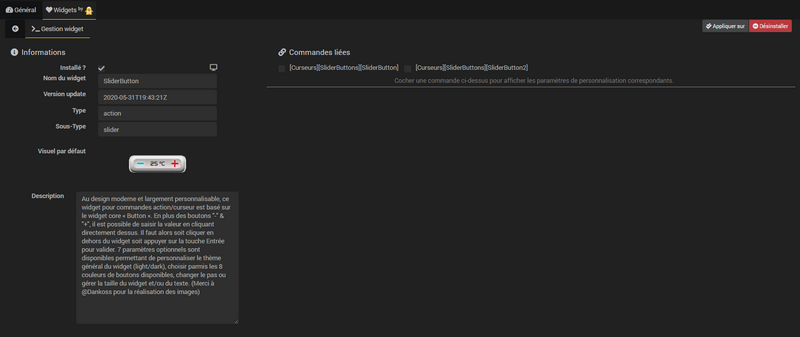
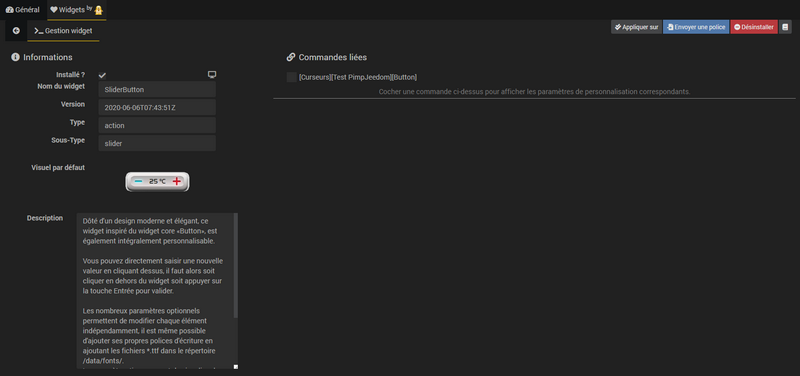
pimpJeedom doc news

diff --git a/pimpJeedom/fr_FR/index.md b/pimpJeedom/fr_FR/index.md
@@ -108,7 +108,9 @@ Permet de visualiser les commandes sur lesquelles le widget est appliqué. Coche
 * **Boutons du menu**:
   * **Appliquer sur** : Pour choisir les commandes sur lesquelles appliquer ou désappliquer le widget.
   * **Mettre à jour** : Pour mettre à jour le widget. Ce bouton apparait uniquement si une mise à jour est disponible pour le widget concerné.
+  * **Envoyer une image** / **Envoyer une police** : Pour ajouter des images ou polices d'écriture directement dans le bon répertoire. Ne s'affiche que si l'option est existante sur le widget.
   * **Désinstaller** : Pour désinstaller le widget.
+  * **Icône_Livre** : Pour accéder à la documentation du widget.
 
 ### Modifier les paramètres optionnels
 
@@ -129,15 +131,13 @@ Chaque nuit le plugin va vérifier si des mises à jour sont disponibles pour le
 De plus une pastille de couleur orange avec un point d'exclamation apparait dans la liste sur le widget concerné par une mise à jour disponible :   
 ![Widgets by Salvialf - Pastille MAJ](../img/pastilleMAJ.png "Widgets by Salvialf - Pastille MAJ")
 
-En cliquant sur le widget disposant d'une mise à jour on constate que le champ **Version update** fait apparaitre la mention *"need_update"* et qu'un bouton de couleur orange nommé **Mettre à jour** est apparu. Il suffit de cliquer sur ce bouton pour procéder à la mise à jour du widget :   
+En cliquant sur le widget disposant d'une mise à jour on constate que le champ **Version** fait apparaitre la mention *"need_update"* et qu'un bouton de couleur orange nommé **Mettre à jour** est apparu. Il suffit de cliquer sur ce bouton pour procéder à la mise à jour du widget :   
 ![Mettre à jour Widget by Salvialf](../img/updateWidgetSalvialf.png "Mettre à jour Widget by Salvialf")  
-
-# Évolutions prévues
-
-Énormément d'évolutions sont prévues pour ce plugin afin de pouvoir modifier facilement votre Jeedom.
-
-Dans un 1er temps chaque widget disposera d'une documentation avec un accès direct depuis le plugin.
 
 # Changelog
 
 [Voir le changelog]({{site.baseurl}}/{{page.pluginId}}/{{page.lang}}/changelog)
+
+# FAQ
+
+###
